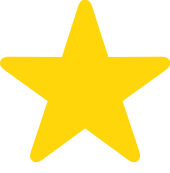
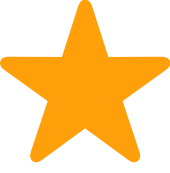
Some styling for ratings page

diff --git a/ratings.php b/ratings.php
@@ -16,6 +16,7 @@ $vendors = $conn->query($vendorQuery);
 ?>
 <!DOCTYPE html>
 <html lang="en">
+
 <head>
 
     <meta charset="UTF-8">
@@ -27,28 +28,32 @@ $vendors = $conn->query($vendorQuery);
 
     <title>Vendor Ratings</title>
 </head>
-    <body>
 
-        <?php
-            @include 'sidebar.php';
-        ?>
-        <div class="vendor-list-container">
+<body>
+
+    <?php
+    @include 'sidebar.php';
+    ?>
+    <div class="vendor-list-container">
+        <div>
             <a href="./vendor/setting_page.php" class="button_vendor_main">Manage Vendors</a>
-            <br>
-            <?php while($vendor = $vendors->fetch_assoc()): ?>
-                <div class="vendor">
-                    <h3><?php echo htmlspecialchars($vendor['vendor_name']); ?></h3>
-                    <p><?php echo htmlspecialchars($vendor['vendor_description']); ?></p>
-                    <div class="vendor-rating">
-                        <p>Average Rating: <?php echo round($vendor['average_rating'], 1); ?> from <?php echo $vendor['total_reviews']; ?> reviews</p>
-                        <p><?php echo displayStarRating($vendor['average_rating']); ?></p>
-                    </div>
-                    <a href="./vendor/vendor_details.php?vendor_id=<?php echo $vendor['vendor_id']; ?>" class="details-button">View Details</a>
-                </div>
-            <?php endwhile; ?>
-
-
         </div>
+        <br>
+        <?php while ($vendor = $vendors->fetch_assoc()) : ?>
+            <div class="vendor mb-3">
+                <h3><?php echo htmlspecialchars($vendor['vendor_name']); ?></h3>
+                <h5><?php echo htmlspecialchars($vendor['vendor_description']); ?></h5>
+                <div class="vendor-rating">
+                    <p>Average Rating: <?php echo round($vendor['average_rating'], 1); ?> from <?php echo $vendor['total_reviews']; ?> reviews</p>
+                    <p><?php echo displayStarRating($vendor['average_rating']); ?></p>
+                </div>
+                <a href="./vendor/vendor_details.php?vendor_id=<?php echo $vendor['vendor_id']; ?>" class="details-button">View Details</a>
+            </div>
+        <?php endwhile; ?>
 
-    </body>
+
+    </div>
+
+</body>
+
 </html>

diff --git a/vendor/functions.php b/vendor/functions.php
@@ -7,17 +7,17 @@ function displayStarRating($rating) {
 
     // Full stars
     for ($i = 0; $i < floor($rating); $i++) {
-        $output .= '★'; // Full star
+        $output .= '<img src="images/sf-icons/star.png" width="25px">'; // Full star
     }
 
     // Half star
     if ($rating - floor($rating) >= 0.5) {
-        $output .= '½'; // Half star (You can use a half-star character or icon)
+        $output .= '<img src="images/sf-icons/half-star.png" width="25px">'; // Half star (You can use a half-star character or icon)
     }
 
     // Empty stars
     for ($i = ceil($rating); $i < 5; $i++) {
-        $output .= '<span class="gray">★</span>'; // Empty star
+        $output .= '<img src="images/sf-icons/empty-star.png" width="25px">'; // Empty star
     }
 
     $output .= '</div>';

diff --git a/dashboard.php b/dashboard.php
@@ -12,6 +12,7 @@ $kpi_select = "SELECT * FROM KPI WHERE MERCHANDISING_YEAR=2008 AND MERCHANDISING
 $kpi_result = mysqli_query($conn, $kpi_select);
 $kpis = mysqli_fetch_all($kpi_result, MYSQLI_ASSOC);
 mysqli_free_result($kpi_result);
+
 ?>
 
 <!DOCTYPE html>
